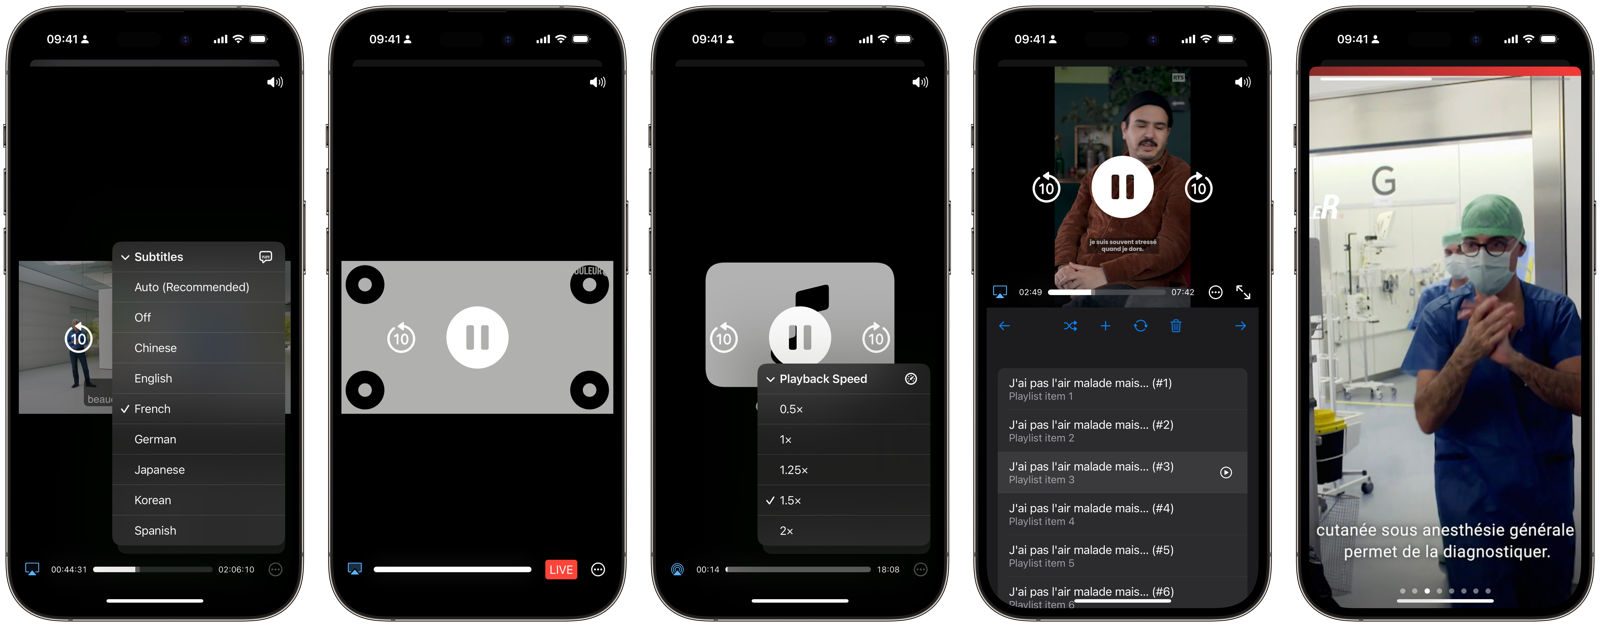
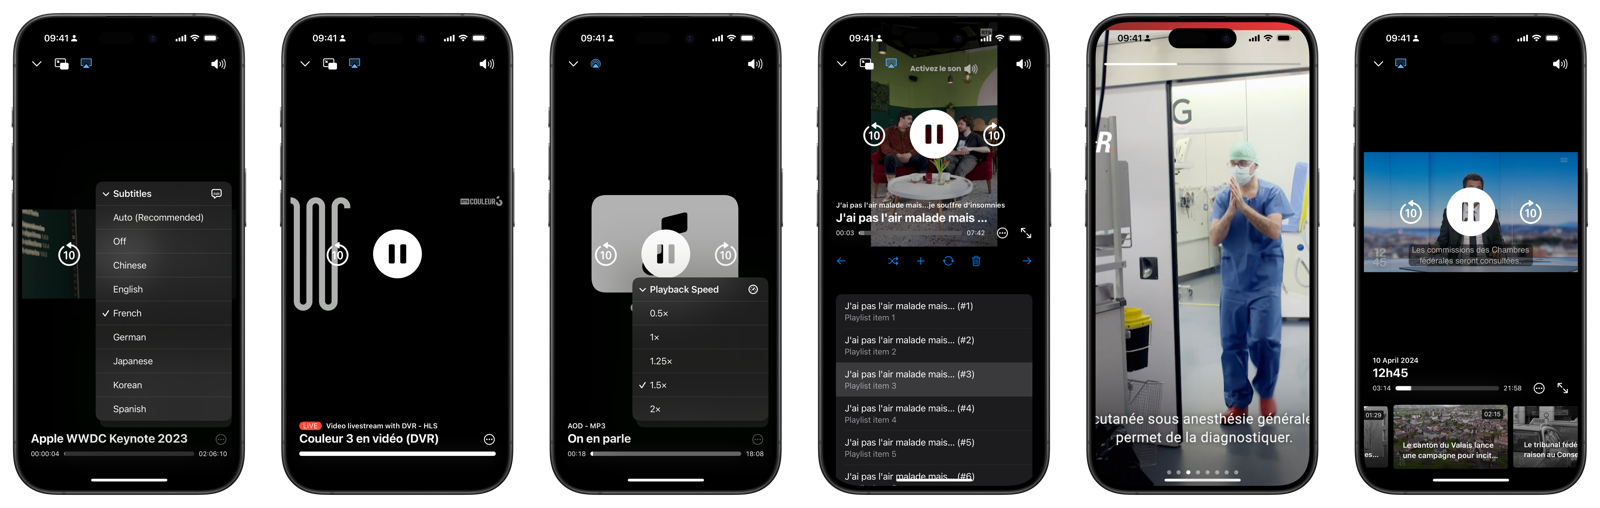
Document metadata integration (#835)

diff --git a/Sources/Player/Types/PlayerMetadata.swift b/Sources/Player/Types/PlayerMetadata.swift
@@ -14,16 +14,23 @@ public struct PlayerMetadata: Equatable {
     /// An identifier for the content.
     public let identifier: String?
 
-    /// The content title.
+    /// The content title
+    ///
+    /// For example the name of the show which the content is associated with, if any, otherwise the name
+    /// of the episode itself.
     public let title: String?
 
     /// A subtitle for the content.
+    ///
+    /// For example the name of the episode when a show name has been provided as title.
     public let subtitle: String?
 
     /// A description of the content.
     public let description: String?
 
     /// The image associated with the content.
+    ///
+    /// The image should usually be reasonable in size (less than 1000px wide / tall is in general sufficient).
     public let image: UIImage?
 
     /// Episode information associated with the content.

diff --git a/Demo/Tutorials/IntegratingWithControlCenter.swift b/Demo/Tutorials/IntegratingWithControlCenter.swift
@@ -1,9 +1,20 @@
+//
+//  Copyright (c) SRG SSR. All rights reserved.
+//
+//  License information is available from the LICENSE file.
+//
+
 import PillarboxPlayer
 import SwiftUI
 
-private struct Metadata: AssetMetadata {}
+private struct Metadata: AssetMetadata {
+    var playerMetadata: PlayerMetadata {
+        // swiftlint:disable:next object_literal
+        .init(title: "🍎", subtitle: "🍏", image: UIImage(named: "apple"))
+    }
+}
 
-struct ContentView: View {
+struct IntegratingWithControlCenter: View {
     @StateObject private var player = Player(item: .simple(
         url: URL(string: "https://devstreaming-cdn.apple.com/videos/streaming/examples/img_bipbop_adv_example_ts/master.m3u8")!,
         metadata: Metadata()

diff --git a/Sources/Player/Player.docc/Tutorials/integrating-with-control-center/integrating-with-control-center-2-2.swift b/Sources/Player/Player.docc/Tutorials/integrating-with-control-center/integrating-with-control-center-2-2.swift
@@ -1,9 +1,9 @@
 import PillarboxPlayer
 import SwiftUI
 
-private struct Metadata {
-    func nowPlayingMetadata() -> NowPlayingMetadata {
-        .init(title: "🍎", subtitle: "🍏", image: .apple)
+private struct Metadata: AssetMetadata {
+    var playerMetadata: PlayerMetadata {
+        .init(title: "🍎", subtitle: "🍏", image: UIImage(named: "apple"))
     }
 }
 

diff --git a/Sources/Player/Types/Chapter.swift b/Sources/Player/Types/Chapter.swift
@@ -16,6 +16,8 @@ public struct Chapter: Equatable {
     public let title: String?
 
     /// The image associated with the chapter.
+    ///
+    /// The image should usually be reasonable in size (less than 1000px wide / tall is in general sufficient).
     public let image: UIImage?
 
     /// The time range covered by the chapter.

diff --git a/Sources/Player/Player.docc/Articles/control-center/control-center.md b/Sources/Player/Player.docc/Articles/control-center/control-center.md
@@ -22,8 +22,10 @@ The main responsibility of a ``PlayerItem`` loaded into a ``Player`` is to deliv
 To associate Control Center metadata with a player item:
 
 1. Create a type which represents your asset metadata and have it conform to ``AssetMetadata``.
-2. Implement the ``AssetMetadata/nowPlayingMetadata()-5kft8`` method and return the ``NowPlayingMetadata`` which must be displayed in the Control Center when the item is currently being played.
+2. Implement the ``AssetMetadata/playerMetadata`` method and return the ``PlayerMetadata`` which must be displayed in the Control Center when the item is currently being played.
 3. Implement a custom ``PlayerItem`` with a metadata publisher retrieving all metadata required before delivering an asset. Alternatively, and provided you have all metadata and the URL to be played readily available, you can simply use one of the available ``PlayerItem`` construction helpers, supplying the asset metadata at creation time.
+
+> Tip: Metadata associated with a ``PlayerItem`` is automatically published by a ``Player``. You can retrieve this metadata from the ``Player/metadata`` property and use it when building a custom user interface. The metadata is also automatically displayed by ``SystemVideoView`` in a standard way.
 
 ### Make a player instance active
 

diff --git a/README.md b/README.md
@@ -20,6 +20,7 @@ Its robust player provides all essential playback features you might expect:
 - Integration with the standard system playback user experience, both on iOS and tvOS.
 - Playlist management including bidirectional navigation.
 - Support for alternative audio tracks, Audio Description, subtitles, CC and SDH, all tightly integrated with standard system accessibility features.
+- Metadata and chapter support.
 - AirPlay compatibility.
 - Control center integration.
 - Multiple instance support.
@@ -40,6 +41,7 @@ From left to right:
 - Screenshots 1, 2 and 3: [Rich custom player user interface](Demo/Sources/Players/PlaybackView.swift).
 - Screenshot 4: [Player with associated playlist](Demo/Sources/Showcase/Playlist/PlaylistView.swift).
 - Screenshot 5: [Stories](Demo/Sources/Showcase/Stories/StoriesView.swift).
+- Screenshot 6: [Custom chapter navigation](Demo/Sources/Players/ChaptersPlayerView.swift).
 
 # Code example
 

diff --git a/Sources/Player/Player.docc/PillarboxPlayer.md b/Sources/Player/Player.docc/PillarboxPlayer.md
@@ -60,15 +60,17 @@ The PillarboxPlayer framework fully integrates with SwiftUI, embracing its decla
 - ``SeekBehavior``
 - ``StreamType``
 
+### Metadata
+
+- ``AssetMetadata``
+- ``PlayerMetadata``
+
 ### System Integration
 
 - <doc:airplay>
 - <doc:control-center>
 - <doc:picture-in-picture>
 
-- ``AssetMetadata``
-- ``NowPlayingInfo``
-- ``NowPlayingMetadata``
 - ``PictureInPicture``
 - ``PictureInPictureButton``
 - ``PictureInPictureDelegate``

diff --git a/Sources/Player/Player.docc/Extensions/player-item.md b/Sources/Player/Player.docc/Extensions/player-item.md
@@ -4,8 +4,8 @@
 
 ### Initializers
 
-- ``init(publisher:trackerAdapters:)``
-- ``init(asset:trackerAdapters:)``
+- ``init(publisher:trackerAdapters:)-3bxzd``
+- ``init(asset:trackerAdapters:)-6pn9c``
 
 ### Methods with metadata
 
